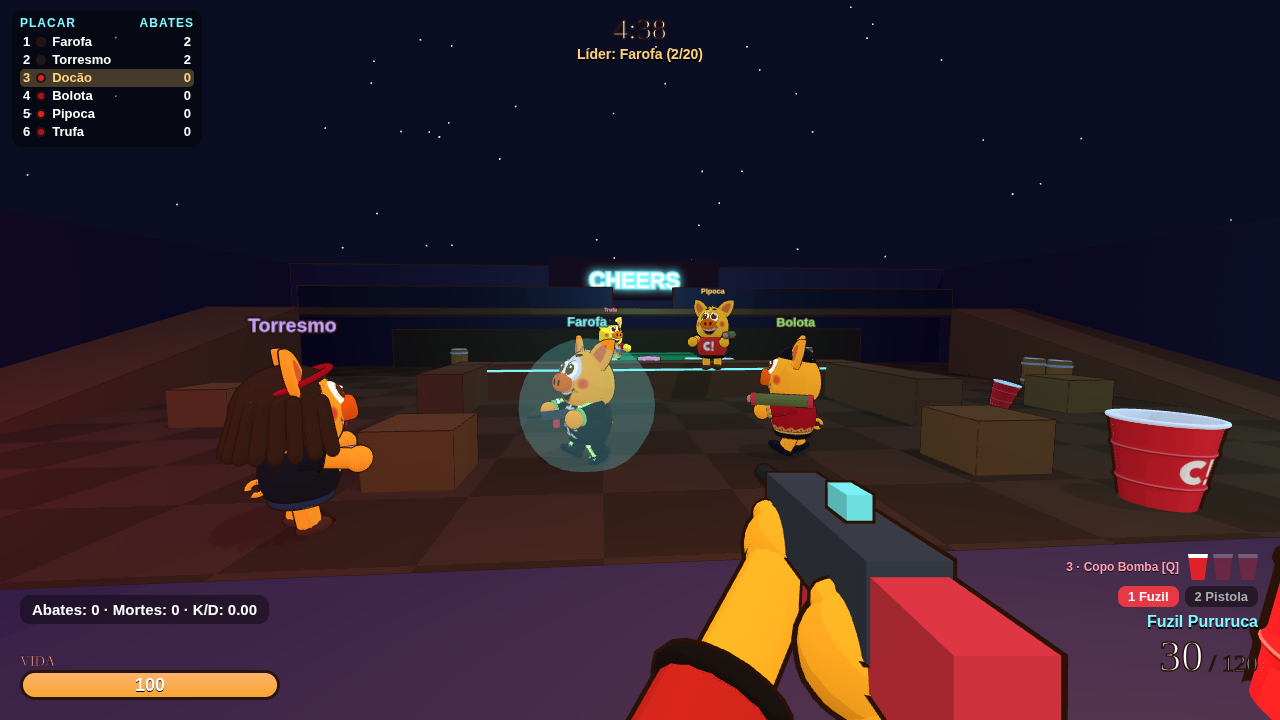
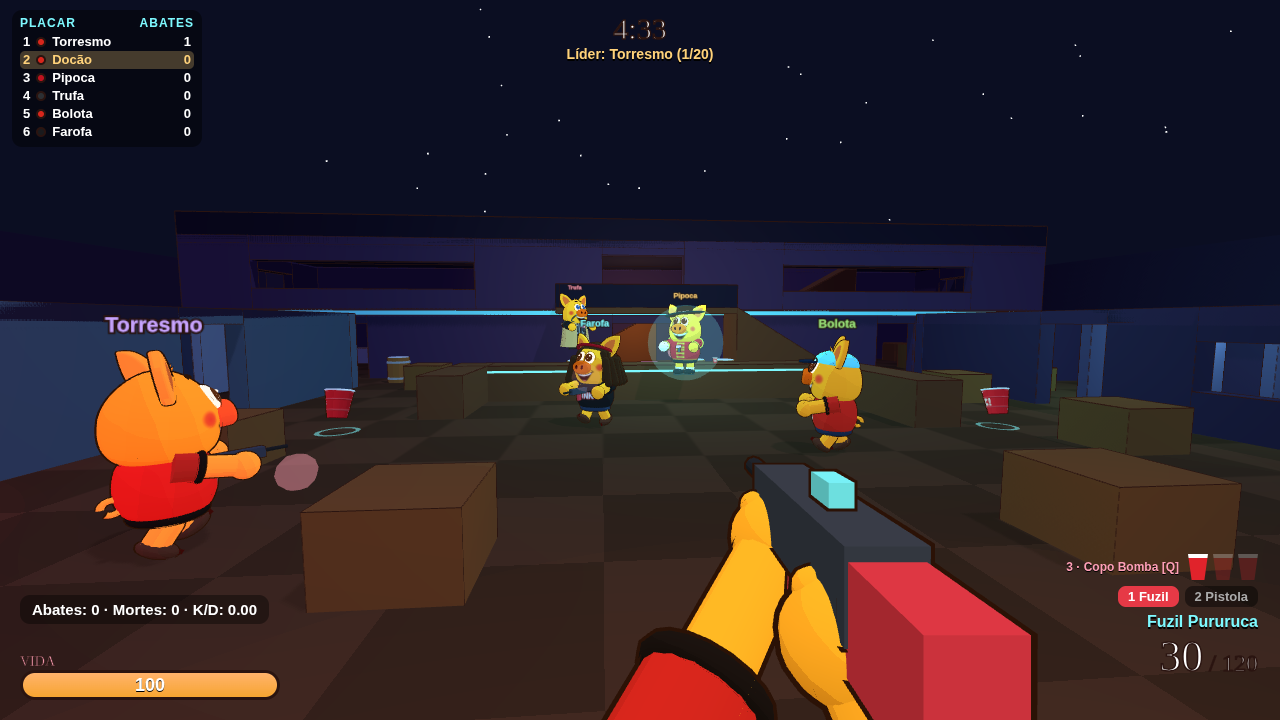
Mapas v2: telhados dos galpões/quiosque por rampa, testes de escada com pontos de virada (via), test-maps falha se algo falhar, ferramenta de screenshots 18-mapa, README dos mapas v2

diff --git a/maps.js b/maps.js
@@ -143,7 +143,7 @@ export const MAPS = [];
       o.push(...building(-18, zc - 3, -11, zc + 3, { col: { wall: '#b5793e', wall2: '#a0682f', floor: '#c8a27a', roof: '#8b5a2b', roof2: '#6b4423' }, floors: 1, H: 3.2,
         ops: [{ s: 'w', a: zc - 1, b: zc + 0.8 }, { s: 'e', a: zc - 0.8, b: zc + 1 }, { s: zc < 0 ? 's' : 'n', a: -16.5, b: -14, k: 'win' }], roofGaps: [{ s: zc < 0 ? 'n' : 's', a: -14.5, b: -12 }] }));
       const zr = zc < 0 ? zc - 3 : zc + 3, d = zc < 0 ? -1 : 1;
-      o.push(B(-14.4, zr, -12.1, zr + d * 1.4, 2.0, '#f2c94c'), R(-14.4, zr + d * 1.4, -12.1, zr + d * 3.6, 0, 2.0, 'z', -d, '#e8c25a'));
+      o.push(R(-14.4, Math.min(zr, zr + d * 5), -12.1, Math.max(zr, zr + d * 5), 0, 3.2, 'z', -d, '#e8c25a'));
     }
     // corredor norte: muretas de pedra e fardos | campo: cercas e caixotes
     o.push(B(-21, -20.6, -16, -19.8, 1.2, '#a8a29a'), B(-12, -24.6, -8, -23.8, 1.2, '#a8a29a'), B(-26, -16, -24.6, -14.2, 1.4, '#f2c94c'), B(-9, -18.8, -7, -16.6, 1.4, '#f2c94c'));
@@ -180,7 +180,7 @@ export const MAPS = [];
       ['ammo', 2, -4.5, 3.5], ['ammo', -2, 4.5, 3.5], ['ammo', -14.5, -11], ['ammo', 14.5, 11], ['ammo', -27, 3, 7], ['ammo', 27, -3, 7],
       ['grenade', -14.5, 11], ['grenade', 14.5, -11], ['grenade', -20, 0], ['grenade', 20, 0], ['grenade', -2.3, 19, 4.4]],
     showcase: [0, 0, 9], view: [-20, 0, 1.5, -1.62, 0.0], openMax: 7,
-    test: { stairs: { from: [-29.8, 0, -5.5], to: [-23.6, 3.5, -5.5], level: 3.5 }, roof: { from: [-29.8, 3.5, 5.5], to: [-23.6, 7.0, 5.5], level: 7.0 }, under: { from: [-29, 0, -2.5], to: [-23.5, 0, -2.5], ceil: 3.2 } },
+    test: { stairs: { from: [-28.4, 0, -5.5], via: [[-23.5, -5.5]], to: [-23.5, 3.5, -3.6], level: 3.5 }, roof: { from: [-28.4, 3.5, 5.5], via: [[-23.5, 5.5]], to: [-25.5, 7.0, 4.0], level: 7.0 }, under: { from: [-29, 0, -2.5], to: [-23.5, 0, -2.5], ceil: 3.2 } },
   });
 }
 
@@ -310,7 +310,7 @@ export const MAPS = [];
   C(-20, -15, 1.4, 1.2); C(-6, -16.5, 1.6, 1.4, '#b07a45');
   boxes.push(B(10, -28, 16, -24, 1.2, stone), R(13, -24, 16, -21, 0, 1.2, 'z', -1, stone), C(12, -27, 1.6, 1.6, '#b07a45', 1.2), C(6, -20, 2, 2), C(20, -30, 1.6, 1.6), C(26, -16, 2, 1.4, '#b07a45'), B(16, -19, 19, -18.2, 1.3, stone));
   boxes.push(...building(22, -26, 30, -20, { col: casa(t4, t2), floors: 1, H: 3.2, ops: [{ s: 'w', a: -24, b: -22 }, { s: 'e', a: -24, b: -22 }, { s: 'n', a: 25, b: 27, k: 'win' }], roofGaps: [{ s: 'n', a: 28, b: 29.8 }] }));
-  boxes.push(B(28, -28.4, 29.8, -26, 1.6, '#9c6b3a'), R(28, -32, 29.8, -28.4, 0, 1.6, 'z', 1, '#b07a45'));
+  boxes.push(R(28, -31, 29.8, -26, 0, 3.2, 'z', 1, '#b07a45'));
   // conector (jungle): liga A, meio e a sala da janela
   boxes.push(...building(4, -14, 18, -4, { col: casa(t3, t1), floors: 1, H: 3.4, parapet: 0, ops: [{ s: 'n', a: 8, b: 10 }, { s: 's', a: 6, b: 8 }, { s: 'e', a: -11, b: -9 }, { s: 'n', a: 13, b: 16, k: 'win' }],
     inner: [{ axis: 'z', s0: -13.5, s1: -4.5, line: 11, ops: [{ a: -8, b: -6 }] }] }));
@@ -350,7 +350,7 @@ export const MAPS = [];
       ['ammo', 0, 0], ['ammo', 14.4, -25.2, 1.2], ['ammo', 22, 28.5, 1.2], ['ammo', 8, -9], ['ammo', 8, 9.5], ['ammo', 25, 4, H],
       ['grenade', -20, -17], ['grenade', -8, -25, H], ['grenade', -8.5, 23.5], ['grenade', 26, -23], ['grenade', -2, 11, H]],
     showcase: [0, 0, 28], view: [-30, 0, 0, -1.57, 0.0], openMax: 7,
-    test: { stairs: { from: [-20.2, 0, 9.4], to: [-13.8, H, 9.4], level: H }, under: { from: [-20, 0, 17], to: [-14, 0, 17], ceil: 3.2 }, roof: { from: [-9, H, -25], to: [-1.8, 0, -25], level: 0 } },
+    test: { stairs: { from: [-20.2, 0, 9.4], to: [-13.8, H, 9.4], level: H }, under: { from: [-20, 0, 17], to: [-14, 0, 17], ceil: 3.2 }, roof: { from: [26, 0, 0.5 - 31], via: [[28.9, -30.5]], to: [28.9, 3.2, -23], level: 3.2 } },
   });
 }
 
@@ -410,7 +410,7 @@ export const MAPS = [];
       ['grenade', -24, 0], ['grenade', 24, 0], ['grenade', 0, 16, 3], ['grenade', 0, -16, 3]],
     openMax: 7.5, // mapa de Sniper: um pouco mais aberto de propósito
     showcase: [22, 0, 36], view: [0, 4.4, 50, 0, -0.04],
-    test: { stairs: { from: [10, 0, 63], to: [10, 4.4, 50], level: 4.4 }, under: { from: [-8, 0, 0.8], to: [8, 0, 0.8], ceil: 2.7 } },
+    test: { stairs: { from: [10, 0, 63], to: [10, 4.4, 50], level: 4.4 }, roof: { from: [-6.5, 4.4, 50.6], via: [[-6.5, 61.6]], to: [-2.5, 8.4, 61.6], level: 8.4 }, under: { from: [-8, 0, 2.8], to: [8, 0, 2.8], ceil: 2.7 } },
   });
 }
 
@@ -460,7 +460,7 @@ export const MAPS = [];
     pickups: [['health', -12.5, -16], ['health', 12.5, 16], ['ammo', -12, -16.5, 3.5], ['ammo', 12, 16.5, 3.5], ['ammo', -27, 0], ['ammo', 27, 0],
       ['grenade', -9, -13, 7], ['grenade', 9, 13, 7], ['grenade', 10, -15.5], ['grenade', -10, 15.5], ['health', 0, -23], ['health', 0, 23]],
     showcase: [4, 0, -4], view: [22, 0, 5, 1.35, 0.02], openMax: 7,
-    test: { stairs: { from: [-9.8, 0, -17.5], to: [-3.4, 3.5, -17.5], level: 3.5 }, under: { from: [-15, 0, -12.5], to: [-10.2, 0, -12.5], ceil: 3.2 }, roof: { from: [-22.4, 3.5, -16.8], to: [-13, 7.0, -16.8], level: 7.0 } },
+    test: { stairs: { from: [-9.8, 0, -17.5], via: [[-3.2, -17.5]], to: [-3.2, 3.5, -15.2], level: 3.5 }, under: { from: [-15, 0, -12.5], to: [-10.2, 0, -12.5], ceil: 3.2 }, roof: { from: [-22.4, 3.5, -16.8], to: [-13, 7.0, -16.8], level: 7.0 } },
   });
 }
 
@@ -519,7 +519,7 @@ export const MAPS = [];
     pickups: [['health', 0, -7], ['health', -18.5, -4.5], ['health', 16, -2], ['ammo', 2, -12, H], ['ammo', 15, -16, 2 * H], ['ammo', 16, 11], ['ammo', -22.6, 6],
       ['grenade', 8, 2], ['grenade', -8, 2], ['grenade', 0, 15, 1], ['grenade', -2, -16, 2 * H]],
     showcase: [0, 0, 6], view: [-2, 1, 13, -0.08, -0.08], openMax: 7,
-    test: { stairs: { from: [-4.2, 0, -18.5], to: [2.2, H, -18.5], level: H }, under: { from: [-9, 0, -13], to: [-3, 0, -13], ceil: 3.0 }, roof: { from: [9.3, H, -18.5], to: [15.7, 2 * H, -18.5], level: 2 * H } },
+    test: { stairs: { from: [-4.2, 0, -18.5], to: [2.2, H, -18.5], level: H }, under: { from: [-4.5, 0, -15], to: [4.5, 0, -15], ceil: 3.0 }, roof: { from: [9.3, H, -18.5], to: [15.7, 2 * H, -18.5], level: 2 * H } },
   });
 }
 

diff --git a/README.md b/README.md
@@ -119,15 +119,17 @@ e o **Copo Bomba** (tecla Q ou 3). **1** = primária, **2** = pistola, a rodinha
 ## Mapas (7)
 Escolha no menu (cartão **Mapa** → grade com miniaturas aéreas, ou **Aleatório**: sorteia um mapa diferente a cada partida). A escolha fica salva no navegador. No fim da partida há **PRÓXIMO MAPA ▸** (segue a ordem da lista).
 
-| Mapa | Ideia de fluxo (inspiração, só layout) | Destaques |
+Mapas v2: tudo foi refeito para parecer mapa de FPS de verdade. São prédios com interior, portas e janelas, vários andares ligados por rampas, telhados e sacadas onde dá pra subir, becos, gargalos e flancos, e nenhum campo aberto (todo ponto fica a ≤ 7 m de uma cobertura). Cada mapa tem pelo menos uma linha longa de Sniper.
+
+| Mapa | Inspiração (só layout) | Destaques |
 |---|---|---|
-| **Arena da Fazendinha** | o mapa original | plataforma central, torres de canto, feno e caixotes |
-| **Duas Pocilgas** | mapa clássico de bomba com dois bombsites (estilo Dust2) | praça A elevada, praça B com túnel coberto, corredor "LONGO" com portas, portas do "MEIO", passarela; areia e caixotes |
-| **Celeiro Industrial** | galpão de dois níveis (estilo Nuke) | térreo + mezanino interno por rampa, telhado acessível por rampa externa, pátio com contêineres, silos e caminhão |
-| **Mercadão** | ruas de mercado com becos e arcos (estilo Mirage/Inferno) | barracas com toldo, fonte central, dois arcos, sacadas com escada, telhado baixo, becos estreitos; paleta terracota |
-| **Torres Gêmeas do Barril** | campo aberto simétrico com duas bases (estilo Blood Gulch / Facing Worlds) | duas torres de 3 níveis (vermelha e ciano), planaltos com ponte (dá pra passar por baixo), pedras e barris; bom pra sniper |
-| **Vizinhança Cheers** | beco sem saída com duas casas frente a frente (estilo Nuketown) | casas de 2 andares com escada interna e janelas, ônibus e caminhão Cheers no meio da rua, carros, cercas; caos rápido |
-| **Bar Cheers Noturno** | mapa compacto de vários níveis (estilo Shell Shockers / Shipment) | noite, neon ciano #7DF9FF e rosa, balcão em U, barris, copões vermelhos gigantes, palco com DJ, mezanino com 2 rampas |
+| **Arena da Fazendinha** | 3 corredores, estilo Shipment / Rust | bases de 2 andares nas pontas com terraço no telhado; celeiro no meio com portões largos e jirau com janelas pros dois lados; galinheiro-túnel no corredor norte; caixa d'água alta no sul (linha de Sniper por baixo); galpões com rampa até o telhado |
+| **Duas Pocilgas** | Dust2 | túneis do B cobertos, com parede em zigue-zague; túnel de baixo até o meio; portas do meio e caixote; catwalk alto até o A; longo com portões; casa do meio de 2 andares com janelas pro meio e pro longo; casa do A e janela do B com terraço; casa do CT olhando o meio inteiro |
+| **Celeiro Industrial** | Rust / Office | galpão com vão central de pé-direito duplo, mezanino em volta com escritórios e guarda-corpo, rampas e telhado com casas de máquina; ponte do mezanino até a torre de contêineres; pátio de contêineres com pilha e rampa; guarita de 2 andares; silos |
+| **Mercadão** | Mirage / Inferno | palácio de 2 andares com sacada e rampa sobre o A; beco da rampa; conector (jungle); sala da janela de 2 andares no fim do meio; apartamentos de 2 andares com corredor em cima e sacada pro B; mercearia (B curto); beco de flanco; fonte no B; quiosque com rampa até o telhado |
+| **Torres Gêmeas do Barril** | mapa comprido de Sniper (Blood Gulch / Facing Worlds) em 3 corredores | torres de 3 níveis com muretas; ruínas de 2 andares sem telhado e trincheira no oeste; planaltos com ruínas e ponte com pilares no meio; paredões de pedra e casamata com telhado (rampas nas pontas) no leste |
+| **Vizinhança Cheers** | Nuketown | duas casas de 2 andares com divisórias, portas e sacada; garagem com telhado ligado ao 1º andar; rampa até o telhado da casa; quintais cercados; galpão com rampa de caixotes; ônibus e caminhões na rua |
+| **Bar Cheers Noturno** | Office (+ Shell Shockers) | ala norte de 2 andares (cozinha, corredor e depósito embaixo; VIP com janelões e sacada em cima; terraço no telhado); banheiros com cabines; escritório; sala de sinuca; camarotes; corredores laterais compridos (linha de Sniper); balcão em U, palco com DJ e neon |
 
 Toda a geometria, os nomes e a arte são originais (nada copiado dos jogos citados).
 
@@ -138,7 +140,11 @@ Toda a geometria, os nomes e a arte são originais (nada copiado dos jogos citad
   - `boxes` e `props`;
   - `spawns`, `pickups` (`health`, `ammo` e `grenade` = Copo Bomba) e `waypoints` extras;
   - `showcase`/`view` e `test`.
-- Para montar o layout há helpers: `B()` caixa, `R()` rampa, `wallX`/`wallZ` (paredes com `door()`/`win()`), `house()` (casa de 2 andares), `mirrorZ`/`rot180` (espelhar bases).
+- Para montar o layout há helpers: `B()` caixa, `R()` rampa, `wallX`/`wallZ` (paredes com `door()`/`win()`), `mirrorZ`/`rot180` (espelhar bases) e o kit v2:
+  - `building(x0, z0, x1, z1, { floors, H, ops, stairs, inner, roofGaps, floorHoles, parapet })` monta um prédio com paredes por andar, portas, janelas e portões largos (`ops`), lajes com vão das rampas (`stairs`), divisórias internas com portas (`inner`), telhado com mureta e vãos (`roofGaps`) e vãos extras na laje (`floorHoles`, para mezanino).
+  - Cada porta gera waypoints (dentro, na porta e fora) para os bots passarem por portas estreitas.
+  - `slab()` (laje com furos), `crate()`, `balcony()` e `fin()` (separa caixas de waypoints).
+  - Dica: comece a rampa a ≥ 1 m da parede, senão não dá pra subir; se o topo encostar na parede, saia pelo lado.
 - `world.js` monta o mapa:
   - caixas mescladas em **uma malha por cor** e uma malha de contornos;
   - props: barril, copão, ônibus, caminhão, árvore, silo, barraca, toldo, placa, neon, estandarte, rua…;
@@ -158,8 +164,11 @@ Toda a geometria, os nomes e a arte são originais (nada copiado dos jogos citad
   - Os props redondos (barril, silo, copão) colidem como quadrados.
   - Os bots às vezes desviam do objetivo para pegar vida ou Copo Bomba.
   - Os bots não usam rocket jump nem pulam entre telhados.
-  - Os telhados mais altos (prédios do Mercadão, quarteirões das Duas Pocilgas) ficam fora do grafo de propósito.
-- Novo mapa: copie um bloco em `maps.js`, ajuste `boxes`/`props`/`spawns`/`pickups` e pronto. Rode `node test-maps.mjs` para conferir (carrega, bots andam, escadas e tetos).
+  - Alguns telhados ficam fora do alcance de propósito (quarteirões maciços, celeiro do meio, galinheiro, palácio).
+- Novo mapa: copie um bloco em `maps.js`, ajuste `boxes`/`props`/`spawns`/`pickups` e rode:
+  - `node test-map-audit.mjs [ids]` (sem navegador): andares no grafo, nós altos e cobertos, "sem campo aberto", linha longa de Sniper, exposição, spawns e itens alcançáveis, zonas da Dominação, e uma partida simulada no servidor em que os bots precisam subir e descer andares. Com `DUMP=/tmp/audit` dá pra gerar a planta: `python3 tools/planta.py /tmp/audit/<id>.json planta.png`.
+  - `node test-maps.mjs` (navegador): carrega, bots andam, escadas, telhados e lajes; falha se algum item falhar.
+  - `node tools/screenshots-mapas.mjs`: gera `screenshots/18-mapa-<id>-{visao-geral,predio,telhado}.png` (câmera livre via `window.__cam`).
 
 ## Regras e modos
 Escolha o modo no menu (offline) ou ao criar a sala (online; o anfitrião pode trocar no lobby).
@@ -206,7 +215,7 @@ Ao morrer o mouse é solto (sem pausar); clique na tela ou em **VOLTAR AO JOGO**
 - `render.html`: renderiza um Docão isolado (`?skin=clube&rot=0.6&frame=face`) para conferir skins
 - `vendor/`: Three.js r169 + BufferGeometryUtils
 - `shared/domination.js` (zona, times) · `shared/combat.js` (explosões, colisão do foguete, dispersão da Sniper): regras usadas pelo cliente e pelo servidor
-- `test.mjs` / `test-maps.mjs` / `test-dom.mjs` / `compare.mjs` / `skingrid.mjs`: testes headless com Playwright (geram `screenshots/`) · `test-shared.mjs`: testes das regras sem navegador
+- `test.mjs` / `test-maps.mjs` / `test-dom.mjs` / `compare.mjs` / `skingrid.mjs`: testes headless com Playwright (geram `screenshots/`) · `test-shared.mjs`: testes das regras sem navegador · `test-map-audit.mjs`: auditoria de layout dos mapas + partida simulada (sem navegador) · `tools/planta.py` e `tools/screenshots-mapas.mjs`: planta e fotos dos mapas
 
 ## Como adicionar uma skin
 Abra `skins.js` e acrescente um objeto no array `SKINS`:
